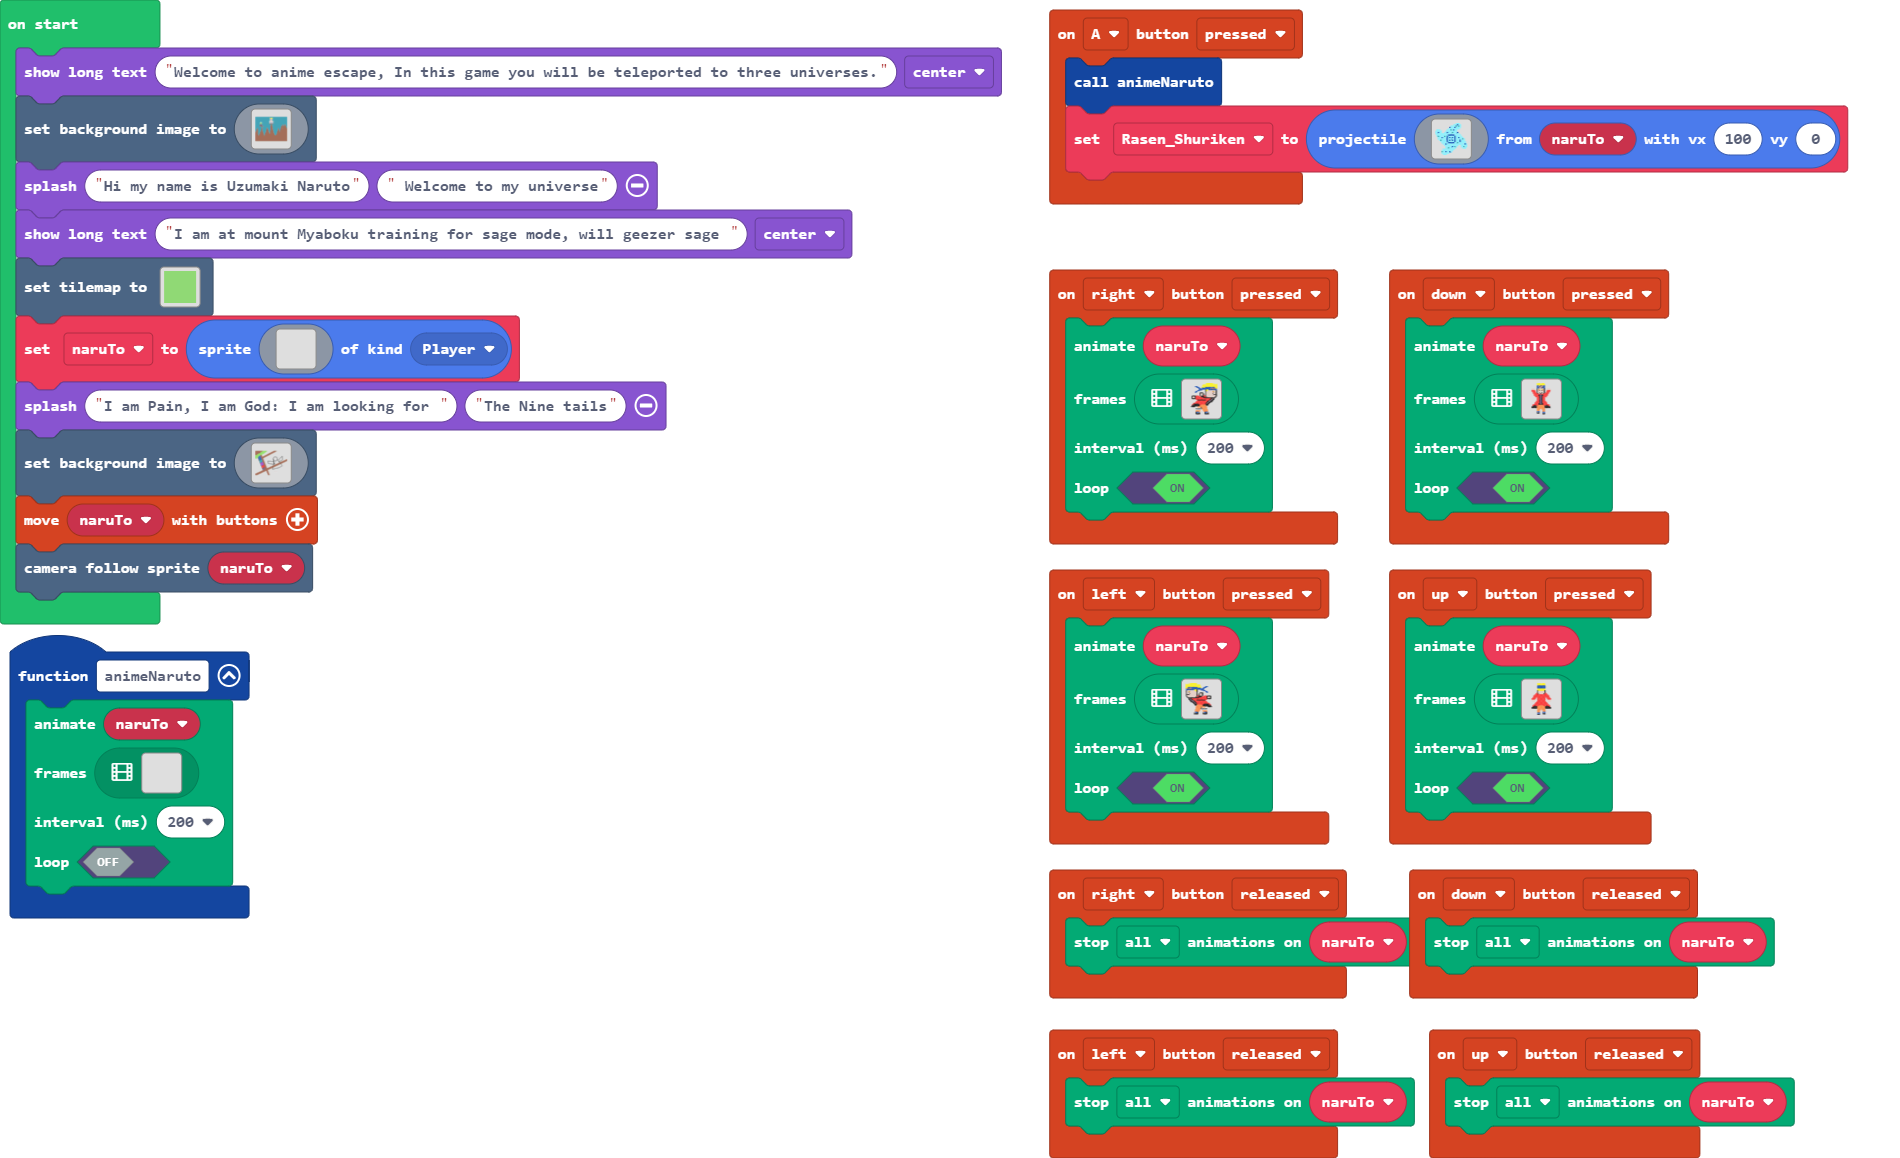
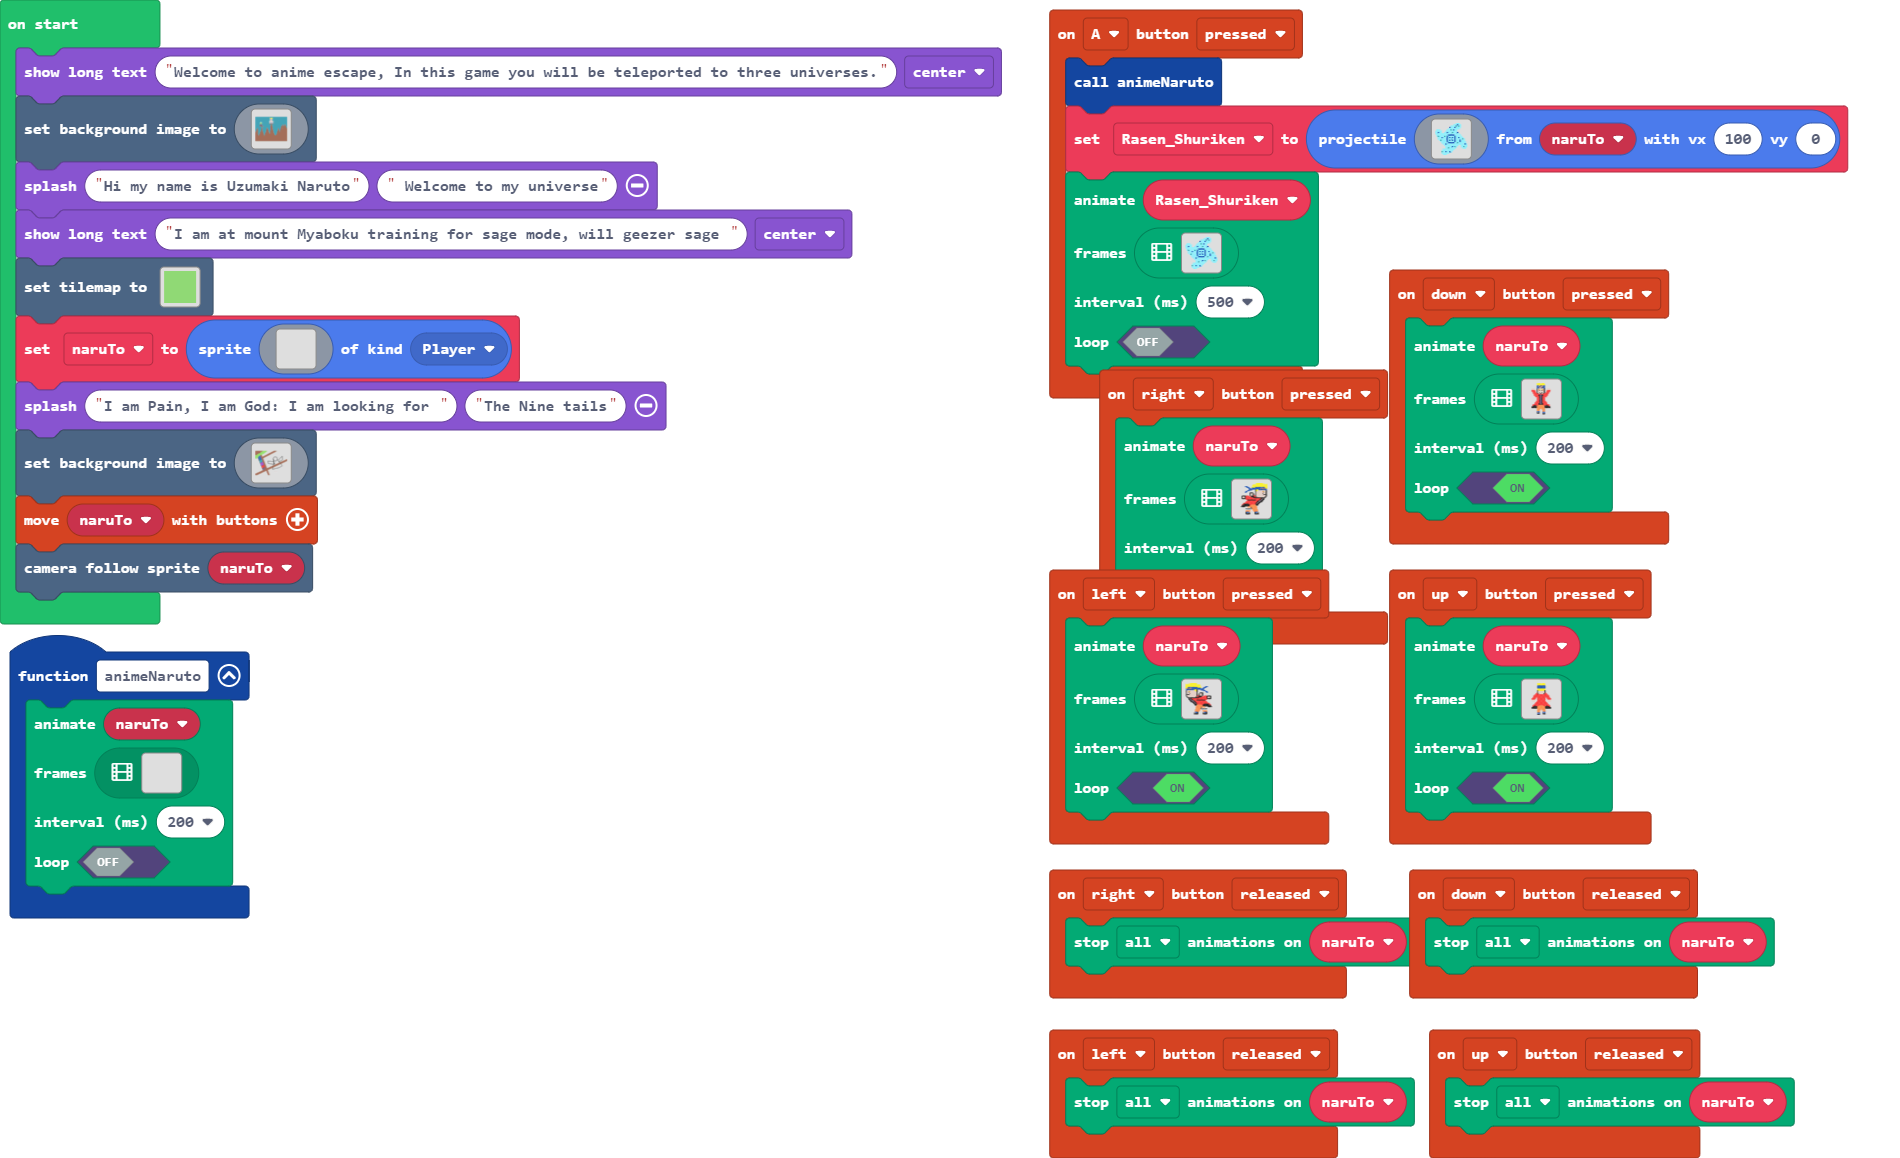
Update main.blocks, main.ts, images.g.jres, images.g.ts

Changed region(s): [[0.5279, 0.1244, 0.7453, 0.4974], [0.6521, 0.5285, 0.7453, 0.5596]]

diff --git a/images.g.ts b/images.g.ts
@@ -475,6 +475,112 @@ f22.fffffffffffffffff.....
 ........f88df......f88df................
 ........fffff......fffff................
 `];
+            case "rasen move":
+            case "Z@L0xTh74P+z}-oB1n5]":return [img`
+................999......
+..............999899.....
+............99996969.....
+...........899989999.....
+..........999999999......
+.999.....99969899........
+99999...999999999........
+99899..99899969998.......
+9999999999999999999......
+.9999999998888899999.....
+.96999969899999899999....
+..99989998989898998999...
+..999999989999989999969..
+...96999989898989998999..
+....99999899999899989999.
+.....9999988888996999999.
+......9989999999999999989
+.......99999999999..99999
+........999998969...99699
+........99699999.....999.
+......999999999..........
+.....999999999...........
+.....69989989............
+.....999999..............
+......999................
+`, img`
+................999......
+..............999999.....
+............99699899.....
+...........999999999.....
+..........969999999......
+.969.....99998999........
+99999...999999999........
+99999..99999996999.......
+9989999989999999999......
+.9999999998888899899.....
+.99996999899999899999....
+..89999998989898999998...
+..999999989999989996999..
+...99989989898989699999..
+....99999899999899989999.
+.....9699988888999999899.
+......9999999999999999699
+.......99699999998..99989
+........999998999...99699
+........99889999.....999.
+......999999999..........
+.....999999969...........
+.....96999999............
+.....999899..............
+......999................
+`, img`
+................999......
+..............999999.....
+............98998996.....
+...........999999999.....
+..........999999999......
+.999.....99999699........
+99699...969899999........
+99999..99999999999.......
+9899999999999999899......
+.9999996998888899999.....
+.99998999899999899999....
+..99989998989898999969...
+..969999989999989999999..
+...99989989898989998999..
+....99999899999896999969.
+.....9999988888999999999.
+......9999999999999999999
+.......89996999899..99899
+........999999999...99999
+........99896999.....999.
+......999999999..........
+.....999989998...........
+.....96969999............
+.....998999..............
+......999................
+`, img`
+................999......
+..............998999.....
+............99999969.....
+...........969999999.....
+..........999999999......
+.999.....99998899........
+99699...999899999........
+98999..89999999699.......
+9969999999999999999......
+.9989999998888899969.....
+.99998999899999899999....
+..99999698989898998999...
+..999699989999989999999..
+...89999989898989999998..
+....99999899999899969999.
+.....9989988888999999999.
+......9999999999899999899
+.......99969999999..99999
+........999999999...99999
+........99989999.....969.
+......999999969..........
+.....999999999...........
+.....99899699............
+.....999999..............
+......999................
+`];
         }
         return null;
     })

diff --git a/main.ts b/main.ts
@@ -9,6 +9,12 @@ controller.up.onEvent(ControllerButtonEvent.Pressed, function () {
 controller.A.onEvent(ControllerButtonEvent.Pressed, function () {
     animeNaruto()
     Rasen_Shuriken = sprites.createProjectileFromSprite(assets.image`Rasen Shuriken`, naruTo, 100, 0)
+    animation.runImageAnimation(
+    Rasen_Shuriken,
+    assets.animation`rasen move`,
+    500,
+    false
+    )
 })
 controller.down.onEvent(ControllerButtonEvent.Released, function () {
     animation.stopAnimation(animation.AnimationTypes.All, naruTo)
@@ -92,7 +98,7 @@ scene.setBackgroundImage(img`
[8 lines of base64/hex data omitted]
